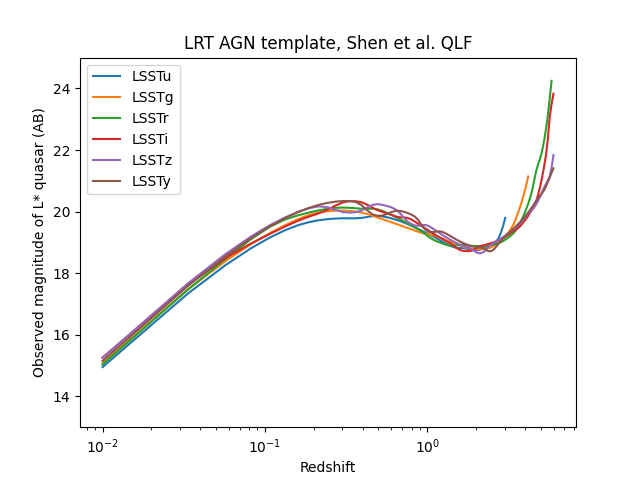
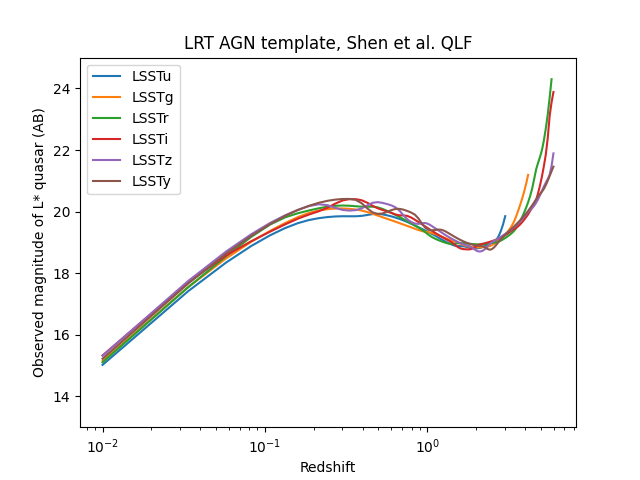
Modified cosmology to be Planck13.

Changed region(s): [[0.1562, 0.4062, 0.7812, 0.7812], [0.7812, 0.1875, 0.875, 0.5]]

diff --git a/mstar_estimates/mstar.lrt.py b/mstar_estimates/mstar.lrt.py
@@ -10,6 +10,14 @@ import Shen20
 import lrt
 import SED_Model
 
+#Setup the cosmology file.
+cosmo_file = open("cosmo.dat","w")
+cosmo_file.write("{}\n".format(cosmo.Om0)) #Omega_Matter
+cosmo_file.write("{}\n".format(1.0-cosmo.Om0)) #Omega_Lambda
+cosmo_file.write("{}\n".format(0.0)) #Omega_k
+cosmo_file.write("{}\n".format(cosmo.H0.value)) #H0
+cosmo_file.close()
+
 #Start by getting L1450 for an Lstar quasar.
 qlf = Shen20.QLF(model="B")
 
